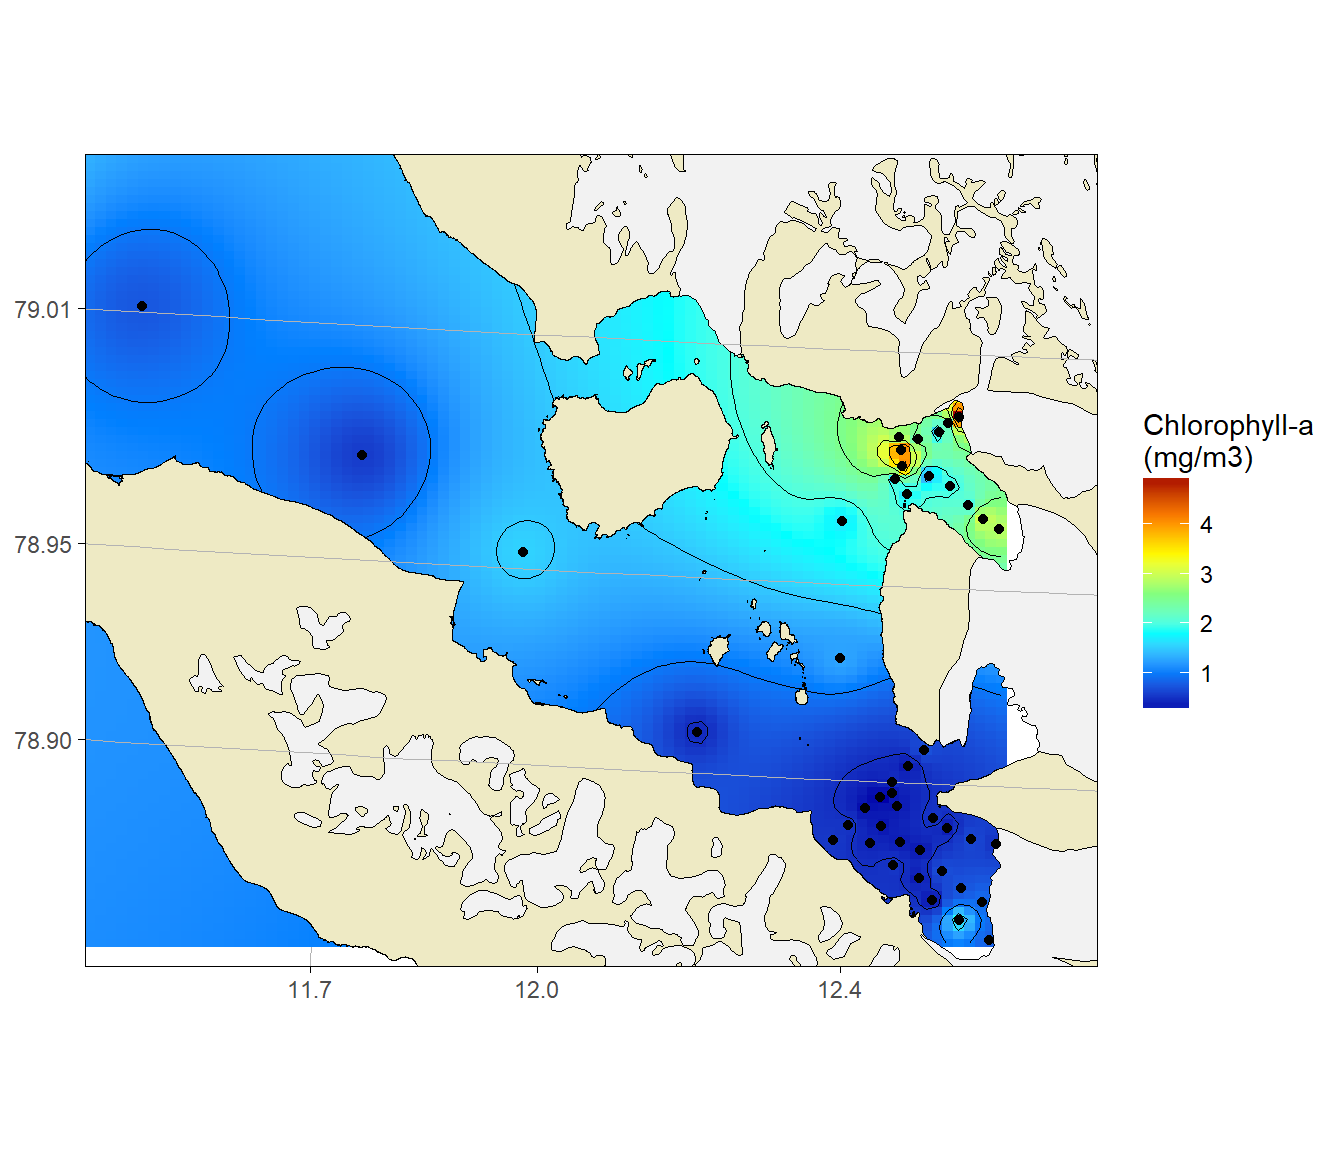
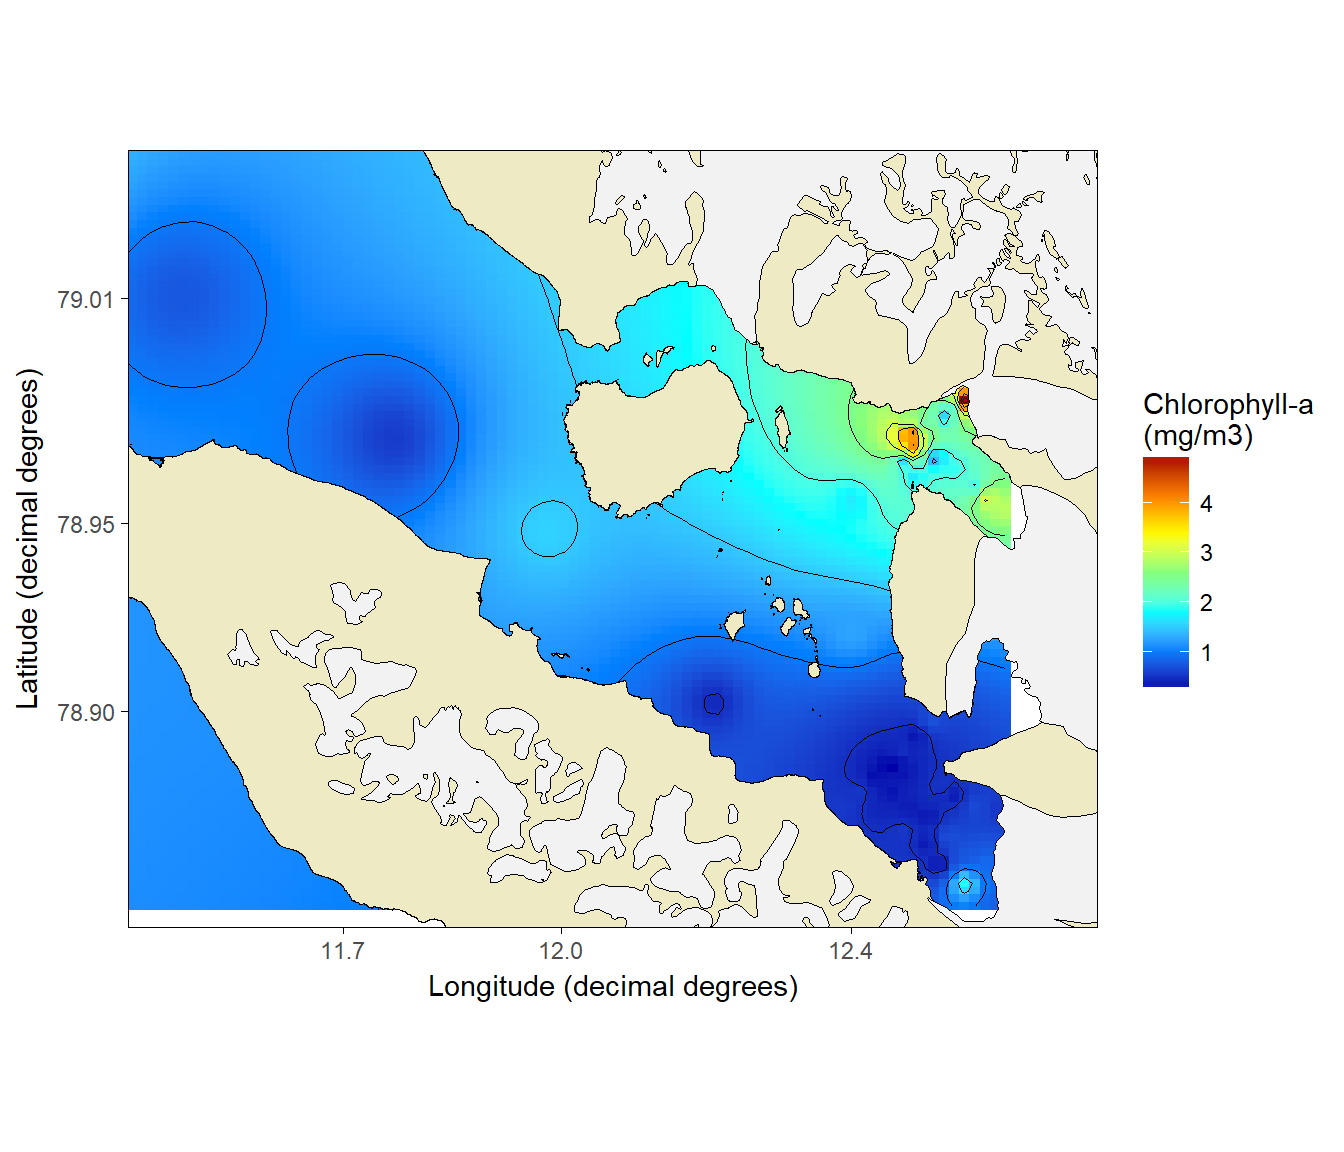
Upgrade to v0.3. Stability updates, testing and improved documentation

diff --git a/docs/articles/PlotSvalbard_user_manual.html b/docs/articles/PlotSvalbard_user_manual.html
@@ -146,16 +146,14 @@
 <p>Note that some map types are already limited, so if you are looking for a map of Kongsfjorden, using <code><a href="../reference/basemap.html">basemap("kongsfjorden")</a></code> might be just what you need.</p>
 <div class="sourceCode"><pre class="sourceCode r"><code class="sourceCode r"><span class="kw"><a href="../reference/basemap.html">basemap</a></span>(<span class="st">"svalbard"</span>, <span class="dt">limits =</span> <span class="kw">c</span>(<span class="dv">11</span>, <span class="dv">18</span>, <span class="fl">77.9</span>, <span class="fl">78.85</span>))</code></pre></div>
 <p><img src="PlotSvalbard_user_manual_files/figure-html/unnamed-chunk-10-1.png" width="672"></p>
-<div class="sourceCode"><pre class="sourceCode r"><code class="sourceCode r"><span class="kw"><a href="../reference/basemap.html">basemap</a></span>(<span class="st">"arctic50"</span>, <span class="dt">limits =</span> <span class="kw">c</span>(<span class="dv">3</span><span class="op">*</span><span class="dv">10</span><span class="op">^</span><span class="dv">6</span>, <span class="op">-</span><span class="dv">3</span><span class="op">*</span><span class="dv">10</span><span class="op">^</span><span class="dv">6</span>, <span class="dv">3</span><span class="op">*</span><span class="dv">10</span><span class="op">^</span><span class="dv">6</span>, <span class="op">-</span><span class="dv">3</span><span class="op">*</span><span class="dv">10</span><span class="op">^</span><span class="dv">6</span>))
-<span class="co">#&gt; Regions defined for each Polygons</span></code></pre></div>
+<div class="sourceCode"><pre class="sourceCode r"><code class="sourceCode r"><span class="kw"><a href="../reference/basemap.html">basemap</a></span>(<span class="st">"arctic50"</span>, <span class="dt">limits =</span> <span class="kw">c</span>(<span class="dv">3</span><span class="op">*</span><span class="dv">10</span><span class="op">^</span><span class="dv">6</span>, <span class="op">-</span><span class="dv">3</span><span class="op">*</span><span class="dv">10</span><span class="op">^</span><span class="dv">6</span>, <span class="dv">3</span><span class="op">*</span><span class="dv">10</span><span class="op">^</span><span class="dv">6</span>, <span class="op">-</span><span class="dv">3</span><span class="op">*</span><span class="dv">10</span><span class="op">^</span><span class="dv">6</span>))</code></pre></div>
 <p><img src="PlotSvalbard_user_manual_files/figure-html/unnamed-chunk-11-1.png" width="672"></p>
 </div>
 <div id="bathymetry" class="section level2">
 <h2 class="hasAnchor">
 <a href="#bathymetry" class="anchor"></a>Bathymetry</h2>
 <p>All basemaps support bathymetry, but the resolution of bathymetry shapefiles is currently too low to plot bathymetry inside fjords. Bathymetry can be plotted using the <code>bathymetry</code> argument.</p>
-<div class="sourceCode"><pre class="sourceCode r"><code class="sourceCode r"><span class="kw"><a href="../reference/basemap.html">basemap</a></span>(<span class="st">"arctic60"</span>, <span class="dt">bathymetry =</span> <span class="ot">TRUE</span>)
-<span class="co">#&gt; Regions defined for each Polygons</span></code></pre></div>
+<div class="sourceCode"><pre class="sourceCode r"><code class="sourceCode r"><span class="kw"><a href="../reference/basemap.html">basemap</a></span>(<span class="st">"arctic60"</span>, <span class="dt">bathymetry =</span> <span class="ot">TRUE</span>)</code></pre></div>
 <p><img src="PlotSvalbard_user_manual_files/figure-html/unnamed-chunk-12-1.png" width="672"></p>
 <div class="sourceCode"><pre class="sourceCode r"><code class="sourceCode r"><span class="kw"><a href="../reference/basemap.html">basemap</a></span>(<span class="st">"barentssea"</span>, <span class="dt">bathymetry =</span> <span class="ot">TRUE</span>)</code></pre></div>
 <p><img src="PlotSvalbard_user_manual_files/figure-html/unnamed-chunk-13-1.png" width="672"></p>
@@ -239,16 +237,16 @@ x &lt;-<span class="st"> </span><span class="kw"><a href="../reference/interpola
 <p>If you are looking for optimal <code>limits</code> for your data, you can use the <code><a href="../reference/basemap.html">basemap("barentssea")</a></code> option to find these limits and replace <code>"barentssea"</code> with <code>"svalbard"</code> once you are done:</p>
 <div class="sourceCode"><pre class="sourceCode r"><code class="sourceCode r"><span class="kw">system.time</span>(<span class="kw"><a href="../reference/basemap.html">basemap</a></span>(<span class="st">"barentssea"</span>))
 <span class="co">#&gt;    user  system elapsed </span>
-<span class="co">#&gt;    0.39    0.05    0.54</span>
+<span class="co">#&gt;    0.47    0.05    0.60</span>
 <span class="kw">system.time</span>(<span class="kw"><a href="../reference/basemap.html">basemap</a></span>(<span class="st">"svalbard"</span>))
 <span class="co">#&gt;    user  system elapsed </span>
-<span class="co">#&gt;   16.28    0.10   16.49</span>
+<span class="co">#&gt;   17.80    0.09   18.25</span>
 <span class="kw">system.time</span>(<span class="kw"><a href="../reference/basemap.html">basemap</a></span>(<span class="st">"barentssea"</span>, <span class="dt">limits =</span> <span class="kw">c</span>(<span class="kw">c</span>(<span class="fl">19.5</span>,<span class="fl">23.5</span>,<span class="dv">80</span>,<span class="fl">81.7</span>))))
 <span class="co">#&gt;    user  system elapsed </span>
-<span class="co">#&gt;    0.11    0.00    0.12</span>
+<span class="co">#&gt;    0.10    0.02    0.12</span>
 <span class="kw">system.time</span>(<span class="kw"><a href="../reference/basemap.html">basemap</a></span>(<span class="st">"svalbard"</span>, <span class="dt">limits =</span> <span class="kw">c</span>(<span class="kw">c</span>(<span class="fl">19.5</span>,<span class="fl">23.5</span>,<span class="dv">80</span>,<span class="fl">81.7</span>))))
 <span class="co">#&gt;    user  system elapsed </span>
-<span class="co">#&gt;    2.02    0.04    2.10</span></code></pre></div>
+<span class="co">#&gt;    2.11    0.01    2.17</span></code></pre></div>
 </div>
 </div>
 <div id="citing-plotsvalbard" class="section level1">
@@ -259,8 +257,8 @@ x &lt;-<span class="st"> </span><span class="kw"><a href="../reference/interpola
 <span class="co">#&gt; </span>
 <span class="co">#&gt; To cite package 'PlotSvalbard' in publications use:</span>
 <span class="co">#&gt; </span>
-<span class="co">#&gt;   Mikko Vihtakari (2017). PlotSvalbard: PlotSvalbard - plot</span>
-<span class="co">#&gt;   research data from Svalbard on maps. R package version 0.2.11.</span>
+<span class="co">#&gt;   Mikko Vihtakari (2018). PlotSvalbard: PlotSvalbard - plot</span>
+<span class="co">#&gt;   research data from Svalbard on maps. R package version 0.3.0.</span>
 <span class="co">#&gt;   https://github.com/MikkoVihtakari/PlotSvalbard</span>
 <span class="co">#&gt; </span>
 <span class="co">#&gt; A BibTeX entry for LaTeX users is</span>
@@ -268,8 +266,8 @@ x &lt;-<span class="st"> </span><span class="kw"><a href="../reference/interpola
 <span class="co">#&gt;   @Manual{,</span>
 <span class="co">#&gt;     title = {PlotSvalbard: PlotSvalbard - plot research data from Svalbard on maps},</span>
 <span class="co">#&gt;     author = {Mikko Vihtakari},</span>
-<span class="co">#&gt;     year = {2017},</span>
-<span class="co">#&gt;     note = {R package version 0.2.11},</span>
+<span class="co">#&gt;     year = {2018},</span>
+<span class="co">#&gt;     note = {R package version 0.3.0},</span>
 <span class="co">#&gt;     url = {https://github.com/MikkoVihtakari/PlotSvalbard},</span>
 <span class="co">#&gt;   }</span></code></pre></div>
 <p>However, please note that the maps generated by this package should be cited to their original source.</p>

diff --git a/docs/reference/basemap.html b/docs/reference/basemap.html
@@ -249,11 +249,11 @@
 <span class='co'>## but the projection is not optimal.</span>
 <span class='fu'>basemap</span>(<span class='st'>"barentssea"</span>, <span class='kw'>limits</span> <span class='kw'>=</span> <span class='fu'>c</span>(<span class='fl'>12</span>, <span class='fl'>24</span>, <span class='fl'>68</span>, <span class='fl'>71</span>))</div><div class='img'><img src='basemap-8.png' alt='' width='700' height='432.632880098887' /></div><div class='input'>
 <span class='co'>## Polar stereographic pan-Arctic maps</span>
-<span class='fu'>basemap</span>(<span class='st'>"arctic50"</span>)</div><div class='output co'>#&gt; <span class='message'>Regions defined for each Polygons</span></div><div class='img'><img src='basemap-9.png' alt='' width='700' height='432.632880098887' /></div><div class='input'>
+<span class='fu'>basemap</span>(<span class='st'>"arctic50"</span>)</div><div class='img'><img src='basemap-9.png' alt='' width='700' height='432.632880098887' /></div><div class='input'>
 <span class='co'>## To find UTM coordinates to limit a pan-Arctic map:</span>
-<span class='fu'>basemap</span>(<span class='st'>"arctic60"</span>) + <span class='fu'>theme_bw</span>()</div><div class='output co'>#&gt; <span class='message'>Regions defined for each Polygons</span></div><div class='img'><img src='basemap-10.png' alt='' width='700' height='432.632880098887' /></div><div class='input'><span class='fu'>basemap</span>(<span class='st'>"arctic60"</span>, <span class='kw'>limits</span> <span class='kw'>=</span> <span class='fu'>c</span>(<span class='fl'>250000</span>, -<span class='fl'>2500000</span>, <span class='fl'>2000000</span>, -<span class='fl'>250000</span>))</div><div class='output co'>#&gt; <span class='message'>Regions defined for each Polygons</span></div><div class='img'><img src='basemap-11.png' alt='' width='700' height='432.632880098887' /></div><div class='input'>
+<span class='fu'>basemap</span>(<span class='st'>"arctic60"</span>) + <span class='fu'>theme_bw</span>()</div><div class='img'><img src='basemap-10.png' alt='' width='700' height='432.632880098887' /></div><div class='input'><span class='fu'>basemap</span>(<span class='st'>"arctic60"</span>, <span class='kw'>limits</span> <span class='kw'>=</span> <span class='fu'>c</span>(<span class='fl'>250000</span>, -<span class='fl'>2500000</span>, <span class='fl'>2000000</span>, -<span class='fl'>250000</span>))</div><div class='img'><img src='basemap-11.png' alt='' width='700' height='432.632880098887' /></div><div class='input'>
 <span class='co'>## Bathymetry can be added using the bathymetry argument</span>
-<span class='fu'>basemap</span>(<span class='st'>"arctic50"</span>, <span class='kw'>bathymetry</span> <span class='kw'>=</span> <span class='fl'>TRUE</span>)</div><div class='output co'>#&gt; <span class='message'>Regions defined for each Polygons</span></div><div class='img'><img src='basemap-12.png' alt='' width='700' height='432.632880098887' /></div><div class='input'>
+<span class='fu'>basemap</span>(<span class='st'>"arctic50"</span>, <span class='kw'>bathymetry</span> <span class='kw'>=</span> <span class='fl'>TRUE</span>)</div><div class='img'><img src='basemap-12.png' alt='' width='700' height='432.632880098887' /></div><div class='input'>
 <span class='co'>## Current bathymetry shapefiles are not detailed</span>
 <span class='co'>## enough for Svalbard fjords</span>
 <span class='fu'>basemap</span>(<span class='st'>"kongsfjorden"</span>, <span class='kw'>bathymetry</span> <span class='kw'>=</span> <span class='fl'>TRUE</span>)</div><div class='img'><img src='basemap-13.png' alt='' width='700' height='432.632880098887' /></div><div class='input'> 

diff --git a/docs/reference/plot.spatInt.html b/docs/reference/plot.spatInt.html
@@ -103,8 +103,9 @@
 <span class='fu'>plot</span>(<span class='no'>x</span>, <span class='kw'>basemap</span> <span class='kw'>=</span> <span class='fl'>TRUE</span>, <span class='kw'>type</span> <span class='kw'>=</span> <span class='st'>"kongsfjorden"</span>,
   <span class='kw'>col.scale.limits</span> <span class='kw'>=</span> <span class='kw'>NULL</span>, <span class='kw'>legend.label</span> <span class='kw'>=</span> <span class='fl'>NA</span>, <span class='kw'>limits</span> <span class='kw'>=</span> <span class='kw'>NULL</span>,
   <span class='kw'>round.lat</span> <span class='kw'>=</span> <span class='fl'>FALSE</span>, <span class='kw'>n.lat.grid</span> <span class='kw'>=</span> <span class='fl'>3</span>, <span class='kw'>round.lon</span> <span class='kw'>=</span> <span class='fl'>FALSE</span>, <span class='kw'>n.lon.grid</span> <span class='kw'>=</span> <span class='fl'>3</span>,
-  <span class='kw'>land.col</span> <span class='kw'>=</span> <span class='st'>"#eeeac4"</span>, <span class='kw'>gla.col</span> <span class='kw'>=</span> <span class='st'>"grey95"</span>, <span class='kw'>grid.col</span> <span class='kw'>=</span> <span class='st'>"grey70"</span>,
-  <span class='kw'>keep.glaciers</span> <span class='kw'>=</span> <span class='fl'>TRUE</span>, <span class='no'>...</span>)</pre>
+  <span class='kw'>keep.glaciers</span> <span class='kw'>=</span> <span class='fl'>TRUE</span>, <span class='kw'>land.col</span> <span class='kw'>=</span> <span class='st'>"#eeeac4"</span>, <span class='kw'>size.land</span> <span class='kw'>=</span> <span class='fl'>0.1</span>,
+  <span class='kw'>border.col.land</span> <span class='kw'>=</span> <span class='st'>"black"</span>, <span class='kw'>gla.col</span> <span class='kw'>=</span> <span class='st'>"grey95"</span>, <span class='kw'>size.glacier</span> <span class='kw'>=</span> <span class='fl'>0.1</span>,
+  <span class='kw'>border.col.glacier</span> <span class='kw'>=</span> <span class='st'>"black"</span>, <span class='kw'>grid.col</span> <span class='kw'>=</span> <span class='st'>"grey70"</span>, <span class='kw'>size.grid</span> <span class='kw'>=</span> <span class='fl'>0.1</span>, <span class='no'>...</span>)</pre>
     
     <h2 class="hasAnchor" id="arguments"><a class="anchor" href="#arguments"></a> Arguments</h2>
     <table class="ref-arguments">
@@ -150,6 +151,10 @@
       <td><p>number of longitude grid lines. Alternatively use <code>round.lon</code></p></td>
     </tr>
     <tr>
+      <th>keep.glaciers</th>
+      <td><p>a logical indicating whether glaciers should be kept for the Svalbard maps. Setting this to <code>FALSE</code> speeds up map plotting little bit.</p></td>
+    </tr>
+    <tr>
       <th>land.col</th>
       <td><p>Color of land</p></td>
     </tr>
@@ -160,10 +165,6 @@
     <tr>
       <th>grid.col</th>
       <td><p>Color of grid lines. Use <code>NA</code> to remove the grid lines.</p></td>
-    </tr>
-    <tr>
-      <th>keep.glaciers</th>
-      <td><p>a logical indicating whether glaciers should be kept for the Svalbard maps. Setting this to <code>FALSE</code> speeds up map plotting little bit.</p></td>
     </tr>
     <tr>
       <th>...</th>

diff --git a/docs/index.html b/docs/index.html
@@ -114,7 +114,7 @@
 <p>Most extensions for ggplot2 work together with PlotSvalbard.</p>
 <div class="sourceCode"><pre class="sourceCode r"><code class="sourceCode r"><span class="kw">data</span>(zooplankton)
 
-x &lt;-<span class="st"> </span><span class="kw">cbind</span>(<span class="kw"><a href="reference/transform_coord.html">transform_coord</a></span>(zooplankton, <span class="dt">lon =</span> <span class="st">"Longitude"</span>, <span class="dt">lat =</span> <span class="st">"Latitude"</span>), zooplankton)</code></pre></div>
+x &lt;-<span class="st"> </span><span class="kw"><a href="reference/transform_coord.html">transform_coord</a></span>(zooplankton, <span class="dt">lon =</span> <span class="st">"Longitude"</span>, <span class="dt">lat =</span> <span class="st">"Latitude"</span>, <span class="dt">bind =</span> <span class="ot">TRUE</span>)</code></pre></div>
 <pre><code>## projection transformed from +proj=longlat +datum=WGS84 to +init=epsg:32633</code></pre>
 <div class="sourceCode"><pre class="sourceCode r"><code class="sourceCode r">species &lt;-<span class="st"> </span><span class="kw">colnames</span>(x)[<span class="op">!</span><span class="kw">colnames</span>(x) <span class="op">%in%</span><span class="st"> </span><span class="kw">c</span>(<span class="st">"lon.utm"</span>, <span class="st">"lat.utm"</span>, <span class="st">"ID"</span>, <span class="st">"Longitude"</span>, <span class="st">"Latitude"</span>, <span class="st">"Total"</span>)]
 
@@ -135,8 +135,8 @@ x &lt;-<span class="st"> </span><span class="kw">cbind</span>(<span class="kw"><
 <pre><code>## 
 ## To cite package 'PlotSvalbard' in publications use:
 ## 
-##   Mikko Vihtakari (2017). PlotSvalbard: PlotSvalbard - plot
-##   research data from Svalbard on maps. R package version 0.2.11.
+##   Mikko Vihtakari (2018). PlotSvalbard: PlotSvalbard - plot
+##   research data from Svalbard on maps. R package version 0.3.0.
 ##   https://github.com/MikkoVihtakari/PlotSvalbard
 ## 
 ## A BibTeX entry for LaTeX users is
@@ -144,8 +144,8 @@ x &lt;-<span class="st"> </span><span class="kw">cbind</span>(<span class="kw"><
 ##   @Manual{,
 ##     title = {PlotSvalbard: PlotSvalbard - plot research data from Svalbard on maps},
 ##     author = {Mikko Vihtakari},
-##     year = {2017},
-##     note = {R package version 0.2.11},
+##     year = {2018},
+##     note = {R package version 0.3.0},
 ##     url = {https://github.com/MikkoVihtakari/PlotSvalbard},
 ##   }</code></pre>
 <p>The maps generated by this package should be cited to their original source.</p>

diff --git a/README.html b/README.html
@@ -156,7 +156,7 @@ fontface = 2, size = 25.4/72.27*8) # font size = 8, see Graphical parameters</co
 <p>Most extensions for ggplot2 work together with PlotSvalbard.</p>
 <pre class="r"><code>data(zooplankton)
 
-x &lt;- cbind(transform_coord(zooplankton, lon = &quot;Longitude&quot;, lat = &quot;Latitude&quot;), zooplankton)</code></pre>
+x &lt;- transform_coord(zooplankton, lon = &quot;Longitude&quot;, lat = &quot;Latitude&quot;, bind = TRUE)</code></pre>
 <pre><code>## projection transformed from +proj=longlat +datum=WGS84 to +init=epsg:32633</code></pre>
 <pre class="r"><code>species &lt;- colnames(x)[!colnames(x) %in% c(&quot;lon.utm&quot;, &quot;lat.utm&quot;, &quot;ID&quot;, &quot;Longitude&quot;, &quot;Latitude&quot;, &quot;Total&quot;)]
 
@@ -176,8 +176,8 @@ labels = parse(text = paste0(&quot;italic(&quot; , sub(&quot;*\\.&quot;, &quot;~
 <pre><code>## 
 ## To cite package 'PlotSvalbard' in publications use:
 ## 
-##   Mikko Vihtakari (2017). PlotSvalbard: PlotSvalbard - plot
-##   research data from Svalbard on maps. R package version 0.2.11.
+##   Mikko Vihtakari (2018). PlotSvalbard: PlotSvalbard - plot
+##   research data from Svalbard on maps. R package version 0.3.0.
 ##   https://github.com/MikkoVihtakari/PlotSvalbard
 ## 
 ## A BibTeX entry for LaTeX users is
@@ -185,8 +185,8 @@ labels = parse(text = paste0(&quot;italic(&quot; , sub(&quot;*\\.&quot;, &quot;~
 ##   @Manual{,
 ##     title = {PlotSvalbard: PlotSvalbard - plot research data from Svalbard on maps},
 ##     author = {Mikko Vihtakari},
-##     year = {2017},
-##     note = {R package version 0.2.11},
+##     year = {2018},
+##     note = {R package version 0.3.0},
 ##     url = {https://github.com/MikkoVihtakari/PlotSvalbard},
 ##   }</code></pre>
 <p>The maps generated by this package should be cited to their original source.</p>

diff --git a/docs/reference/index.html b/docs/reference/index.html
@@ -94,7 +94,7 @@
     <div class="page-header">
       <h1>
         Reference
-        <small>version&nbsp;0.2.11</small>
+        <small>version&nbsp;0.3.0</small>
       </h1>
     </div>
 
